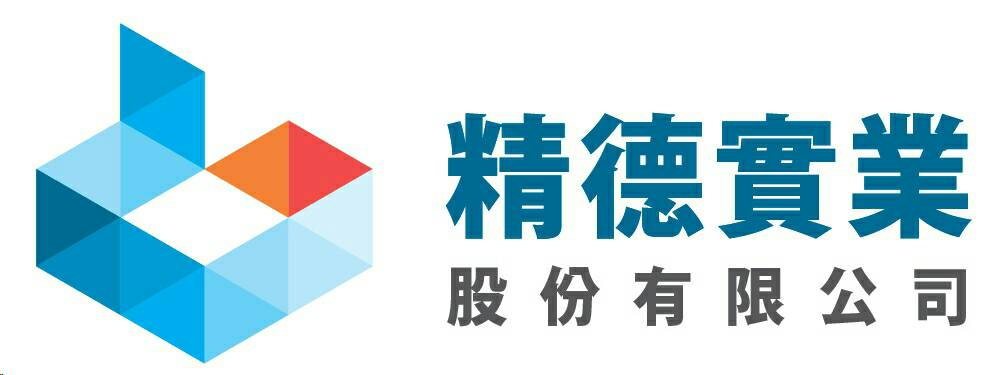
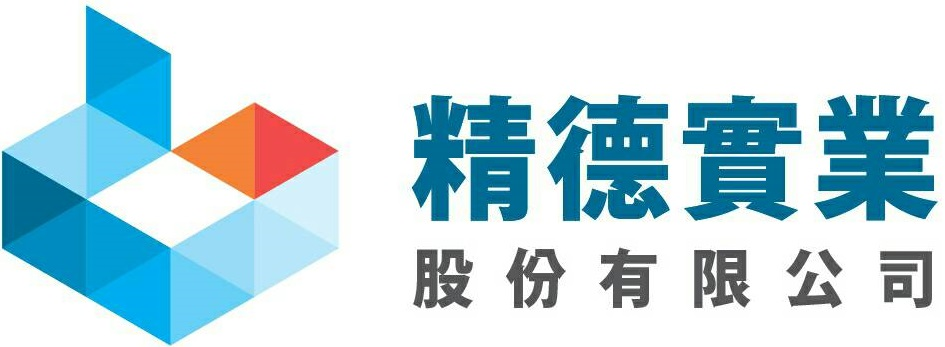
link

Changed region(s): [[0.4296, 0.2594, 1.0, 0.6628], [0.0, 0.0, 0.3989, 1.0], [0.4296, 0.6916, 1.0, 0.8934]]

diff --git a/docs/examples/blog/blog.css b/docs/examples/blog/blog.css
@@ -43,7 +43,7 @@ h6, .h6 {
   width:75%;
   position:relative;
   top:20px;
-  border-radius: 8px;
+  border-radius: 7px;
   -webkit-box-shadow: inset 0 -2px 5px rgba(0,0,0,.1);
           box-shadow: inset 0 -2px 5px rgba(0,0,0,.1);
 }

diff --git a/docs/examples/blog/master.php b/docs/examples/blog/master.php
@@ -39,9 +39,9 @@ include("page_connect.php");
       <div class="container">
         <nav class="blog-nav">
           <div class="dropdown">
-            <!--<button class="dropbtn"><a sytle="font-size:18px;" href="../carousel/test_home.php">精德實業股份有限公司</a></button>
-			<a href="../carousel/test_home.php">-->
-			<div class="rotate">	<img src="http://ntcucsintern.ddns.net/bootstrap-3.3.1/docs/examples/ginder.jpg" height="55px" alt="精德實業股份有限公司"/></div>
+            <!--<button class="dropbtn"><a sytle="font-size:18px;" href="../carousel/test_home.php">精德實業股份有限公司</a></button>-->
+			<a href="http://ntcucsintern.ddns.net/bootstrap-3.3.1/docs/examples/carousel/test_home.php">
+			<div class="rotate">	<img src="http://ntcucsintern.ddns.net/bootstrap-3.3.1/docs/examples/ginder.jpg" height="56px" alt="精德實業股份有限公司"/></div>
 			</a>
           </div>
           <div class="dropdown">
